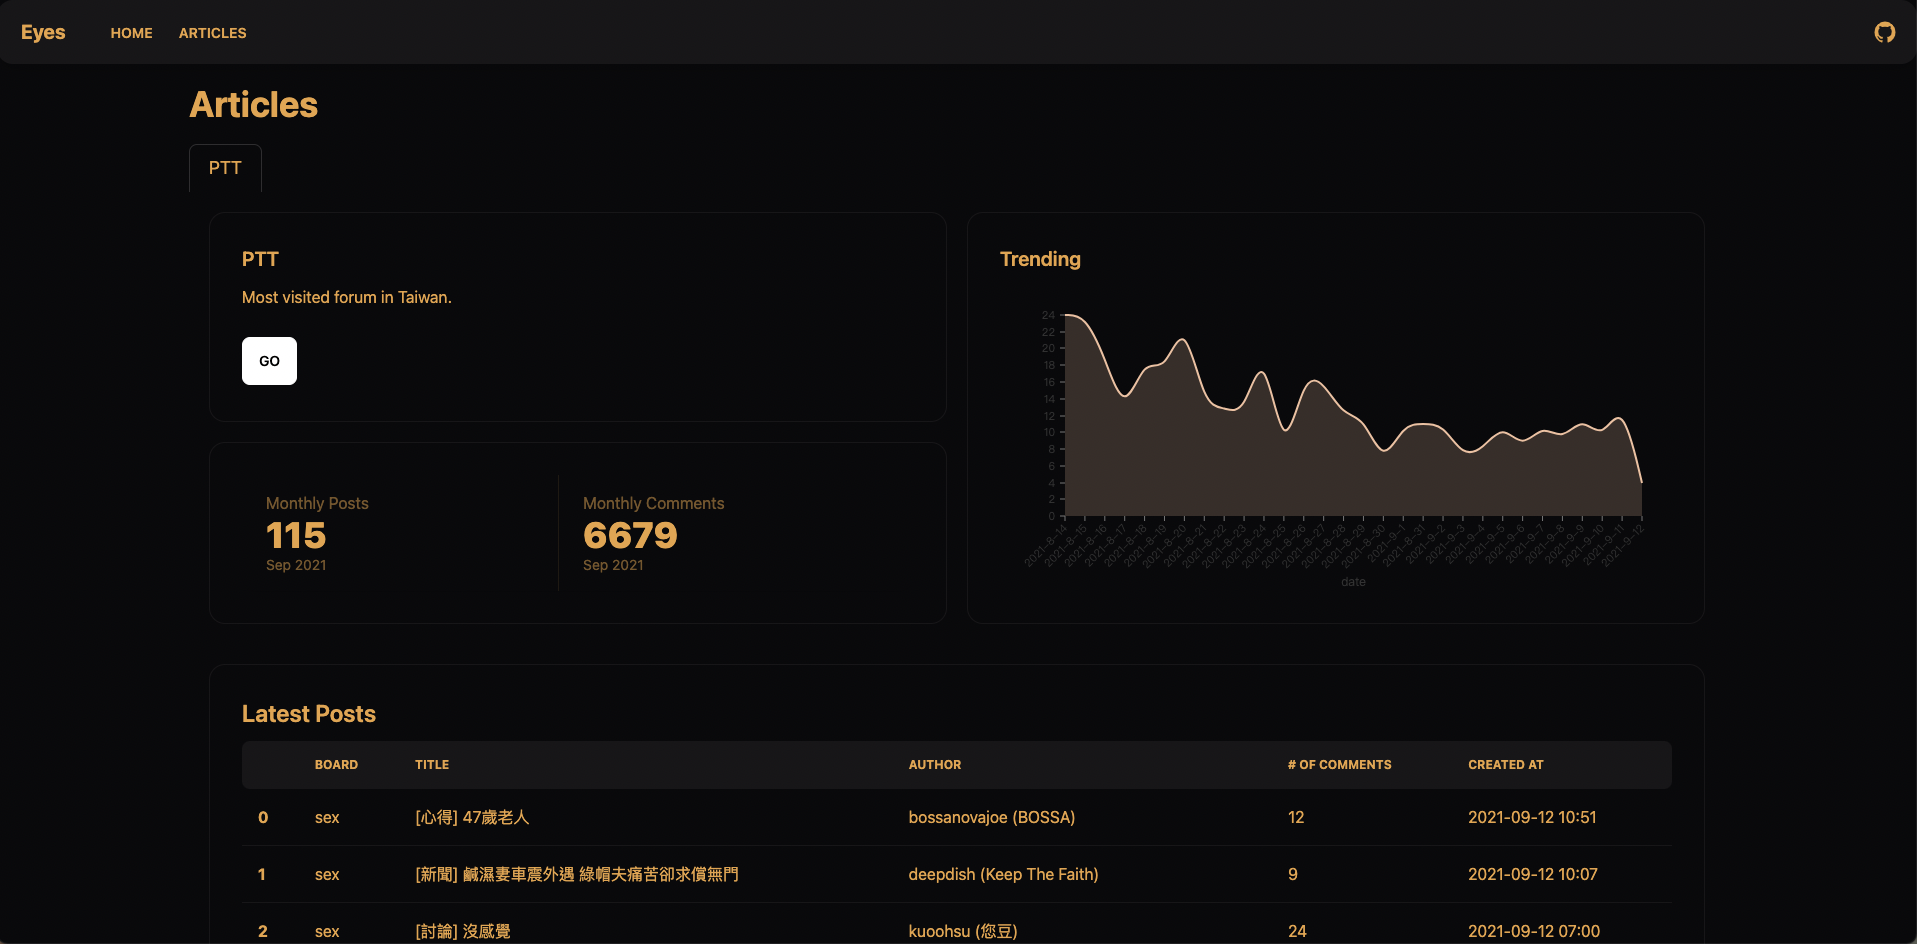
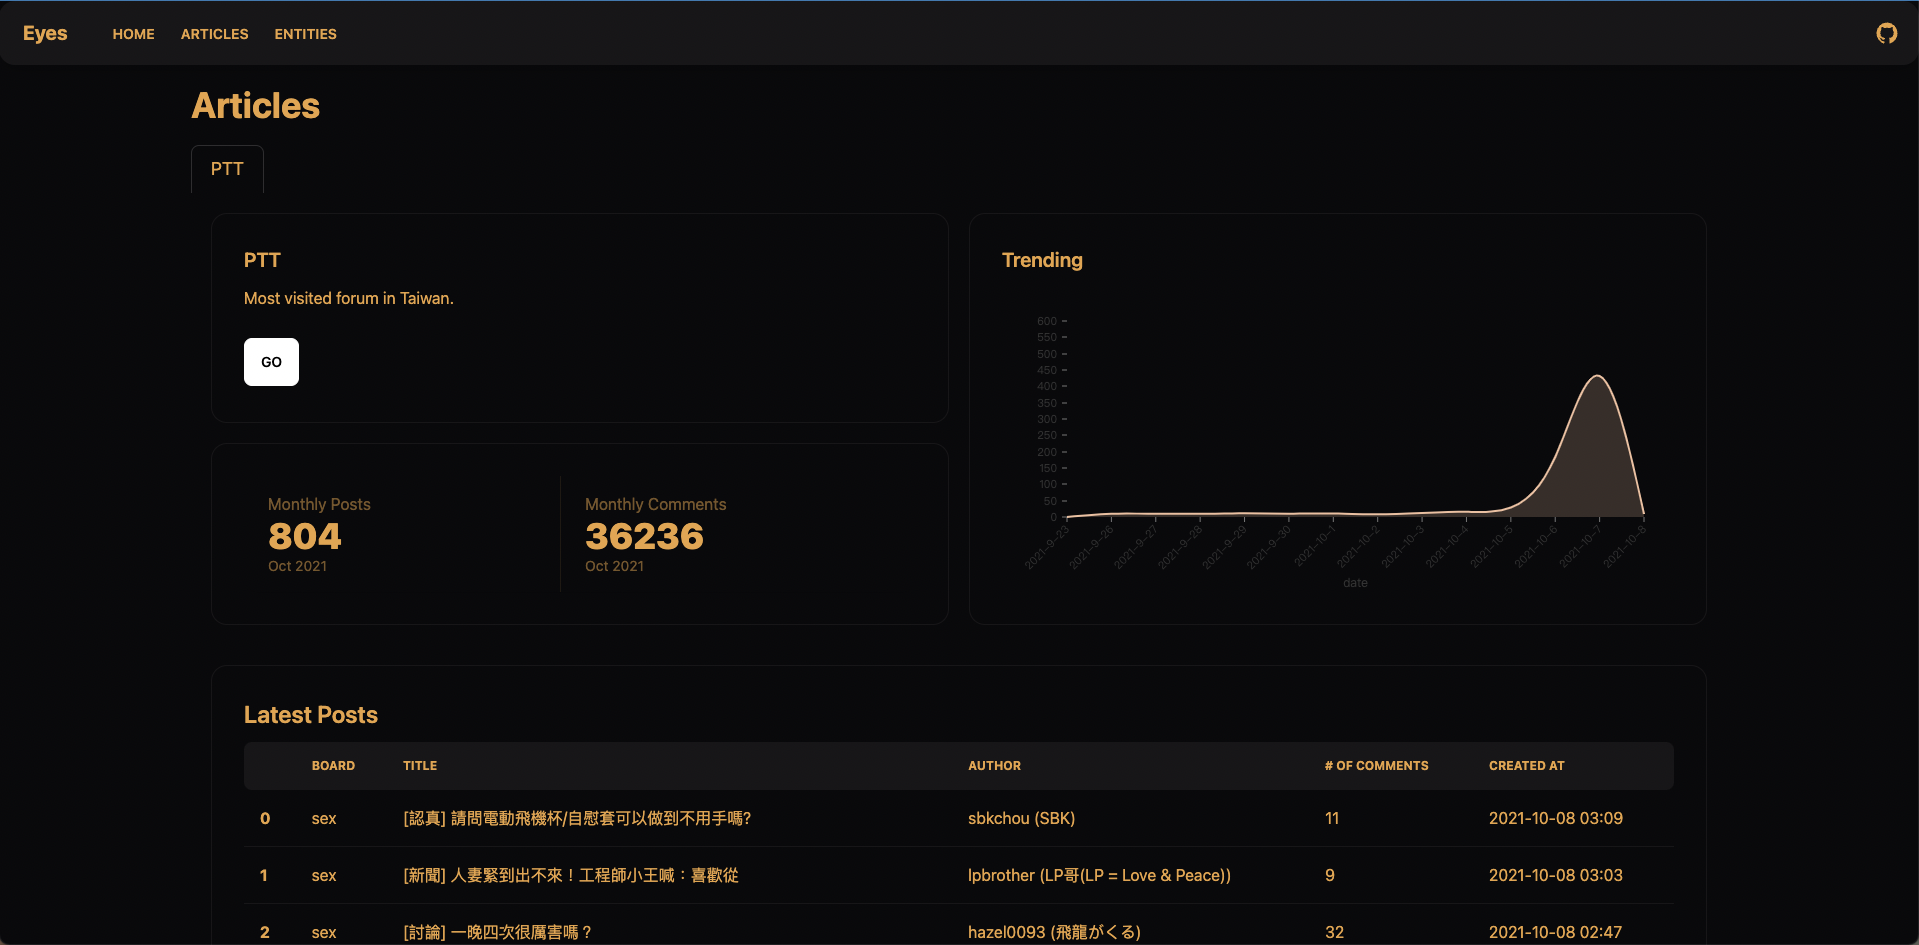
Add top entities table

diff --git a/web/src/pages/Entities.jsx b/web/src/pages/Entities.jsx
@@ -7,7 +7,43 @@ import Spinner from "../components/Spinner";
 
 import NetworkChart from "../components/NetworkChart";
 
+const columns = [
+  {
+    name: "Name",
+  },
+  {
+    name: "Count",
+  },
+];
+
+const createTableData = (data) => {
+  return (
+    <div className="overflow-x-auto">
+      <table className="table w-full">
+        <thead>
+          <th></th>
+          {columns.map((column, index) => (
+            <th key={index}>{column.name}</th>
+          ))}
+        </thead>
+        <tbody>
+          {data?.map((row, index) => (
+            <tr key={index} className="hover">
+              <th>{index}</th>
+              <td>{row.name}</td>
+              <td>{row.count}</td>
+            </tr>
+          ))}
+        </tbody>
+      </table>
+    </div>
+  );
+};
+
 const Entities = (props) => {
+  const allStatsEntitySummaries = useSelector(
+    (state) => state.entities.allStatsEntitySummaries
+  );
   const loaded = useSelector((state) => state.entities.status.loaded);
   const requesting = useSelector((state) => state.entities.status.requesting);
   const nodes = useSelector((state) => state.entities.nodes);
@@ -19,7 +55,13 @@ const Entities = (props) => {
   return (
     <>
       <h1 className="font-bold text-4xl my-5">Entities</h1>
-      <div className="grid grid-cols-2 grid-flow-col h-128">
+      <div className="grid grid-cols-2 grid-flow-col h-128 gap-5">
+        <div className="card bordered">
+          <div className="card-body">
+            <div className="card-title">Top Entities</div>
+            {createTableData(allStatsEntitySummaries)}
+          </div>
+        </div>
         <div className="card bordered">
           <div className="card-body">
             <div className="card-title">Entity Relationship</div>

diff --git a/README.md b/README.md
@@ -10,7 +10,8 @@ eyes is a **Public Opinion Mining System** focusing on taiwanese forums such as 
 
 ## Screenshots
 
-![Latest Posts](./doc/static/images/articles_dashboard.png)
+![Articles Dashboard](./doc/static/images/articles_dashboard.png)
+![Entities Dashboard](./doc/static/images/entities_dashboard.png)
 
 ## Architecture
 
